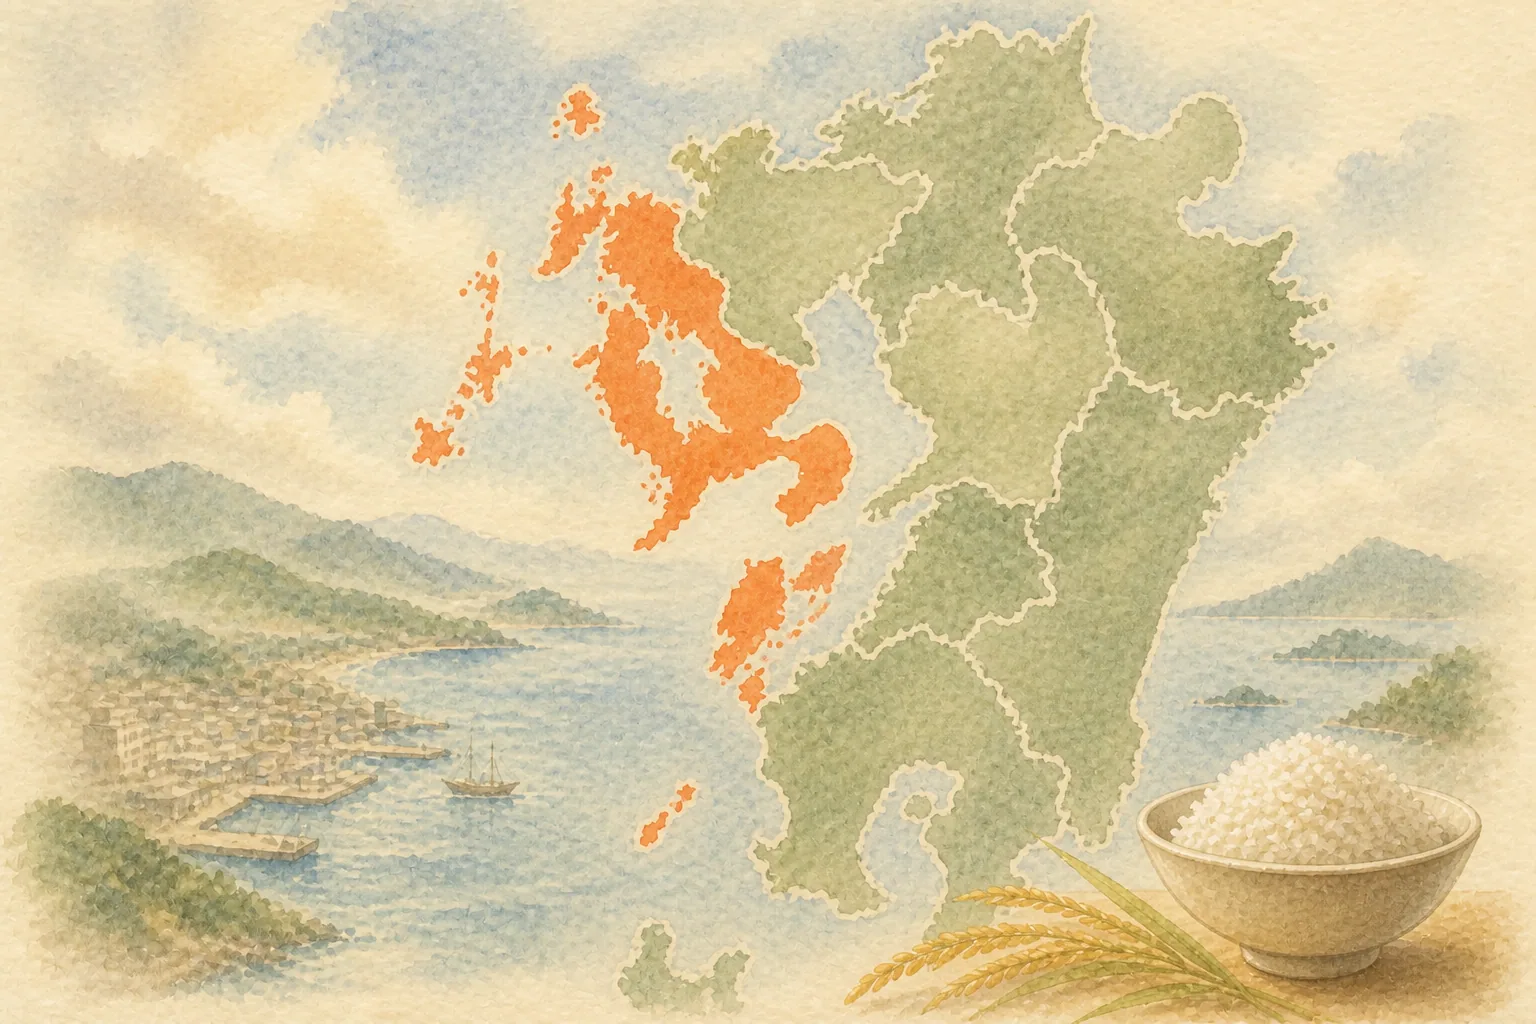
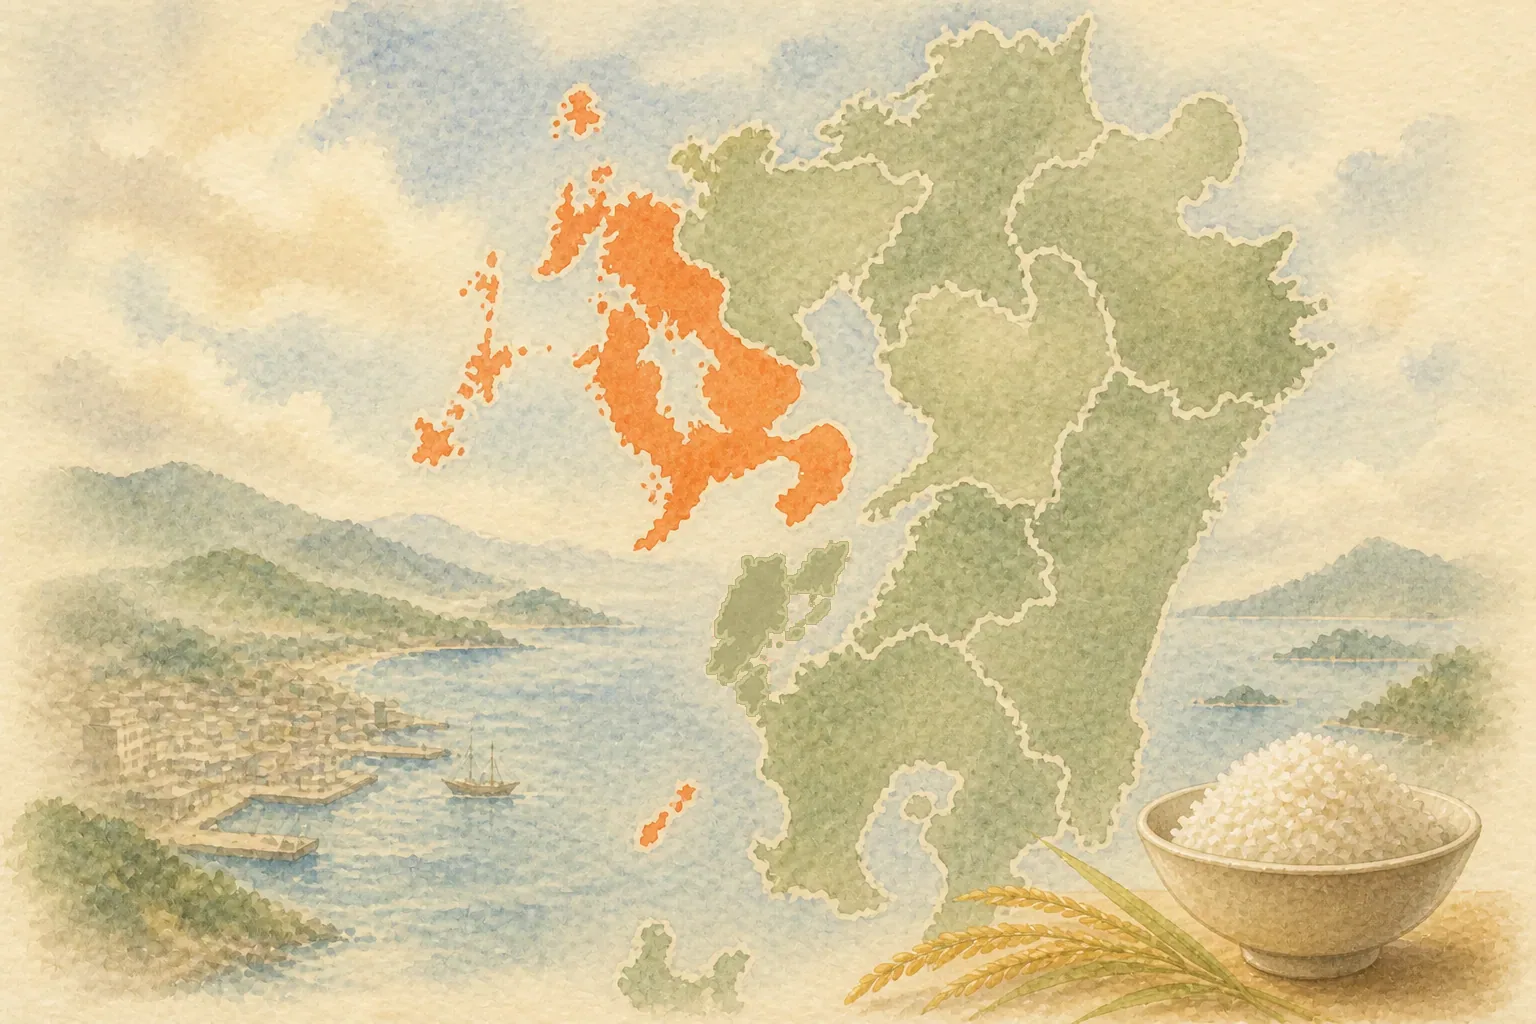
Release 1.1.2: fix Nagasaki prefecture art islands.
Remove Kumamoto's Amakusa from the Nagasaki wash; keep Tsushima, Iki, and Goto.

Changed region(s): [[0.4375, 0.5312, 0.5625, 0.7188]]

diff --git a/public/brand-art/ATTRIBUTION.md b/public/brand-art/ATTRIBUTION.md
@@ -24,4 +24,5 @@ Sources are stored as **WebP** (resized ≤1600px long edge, quality≈82) via `
 | `collections/toku-a.webp` | Collection hero（特Aの一膳、2026-09-05） |
 | `regions/*.webp` | Neutral macro-region fallbacks (no single-prefecture highlight) |
 | `prefectures/*.webp` | Atlas plates for catalog prefectures (46): region base + **full-prefecture wash** + rice / local mood (2026-09-03). No town pins, no prefecture-name text in image. |
+| `prefectures/nagasaki.webp` | Geography fix 2026-09-08: Amakusa (Kumamoto) no longer in Nagasaki wash; Tsushima / Iki / Goto kept. |
 

diff --git a/docs/10-changelog.md b/docs/10-changelog.md
@@ -4,6 +4,10 @@
 
 見出し日付は発版日（`YYYY-MM-DD`）。旧版は VERSION を上げた commit 日で遡及記入。
 
+## 1.1.2 — 2026-09-08
+
+- 長崎県画の着色を修正。熊本県の天草諸島を本県色から外し、隣県のくすんだ色に戻す（対馬・壱岐・五島は長崎のまま）
+
 ## 1.1.1 — 2026-09-08
 
 - CI typecheck 修正。`e2e/seo-security.spec.ts` の `/gs`（dotAll）が `tsconfig` の ES2017 target と合わず落ちていた。`[\s\S]` に差し替え
